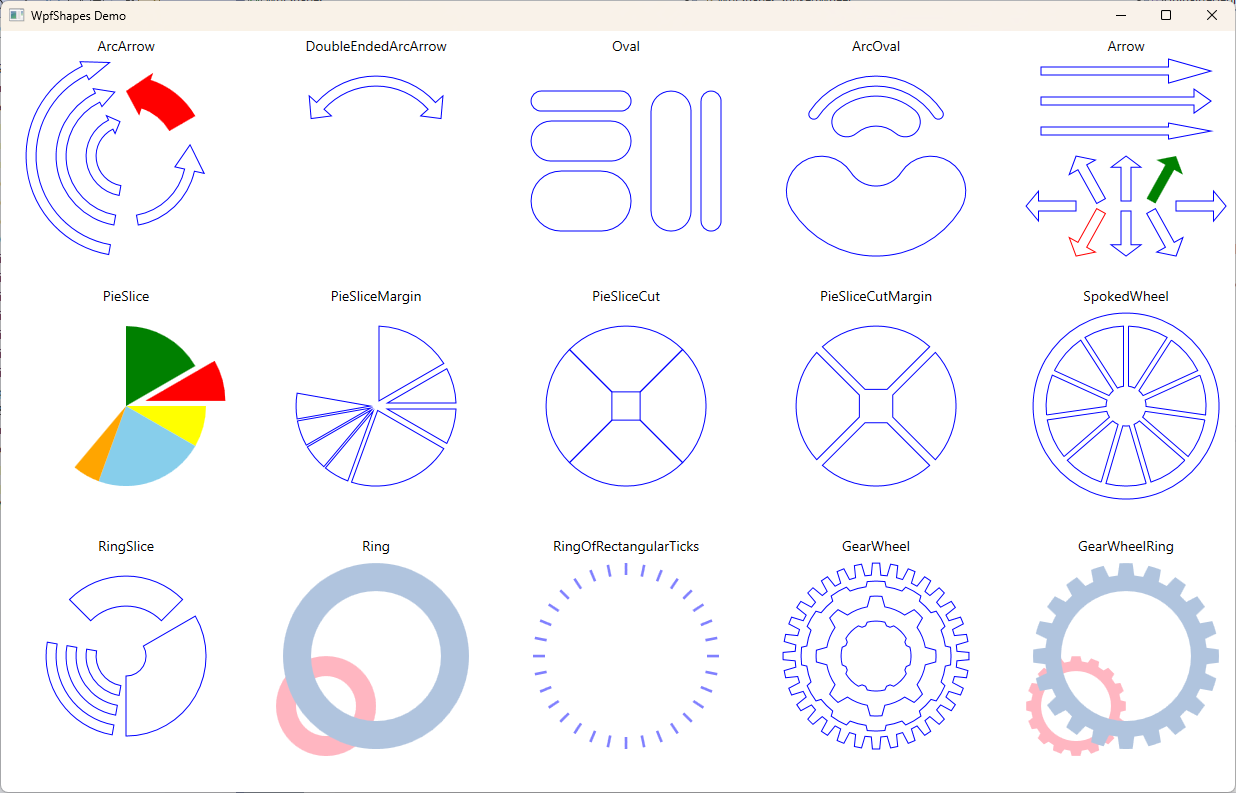
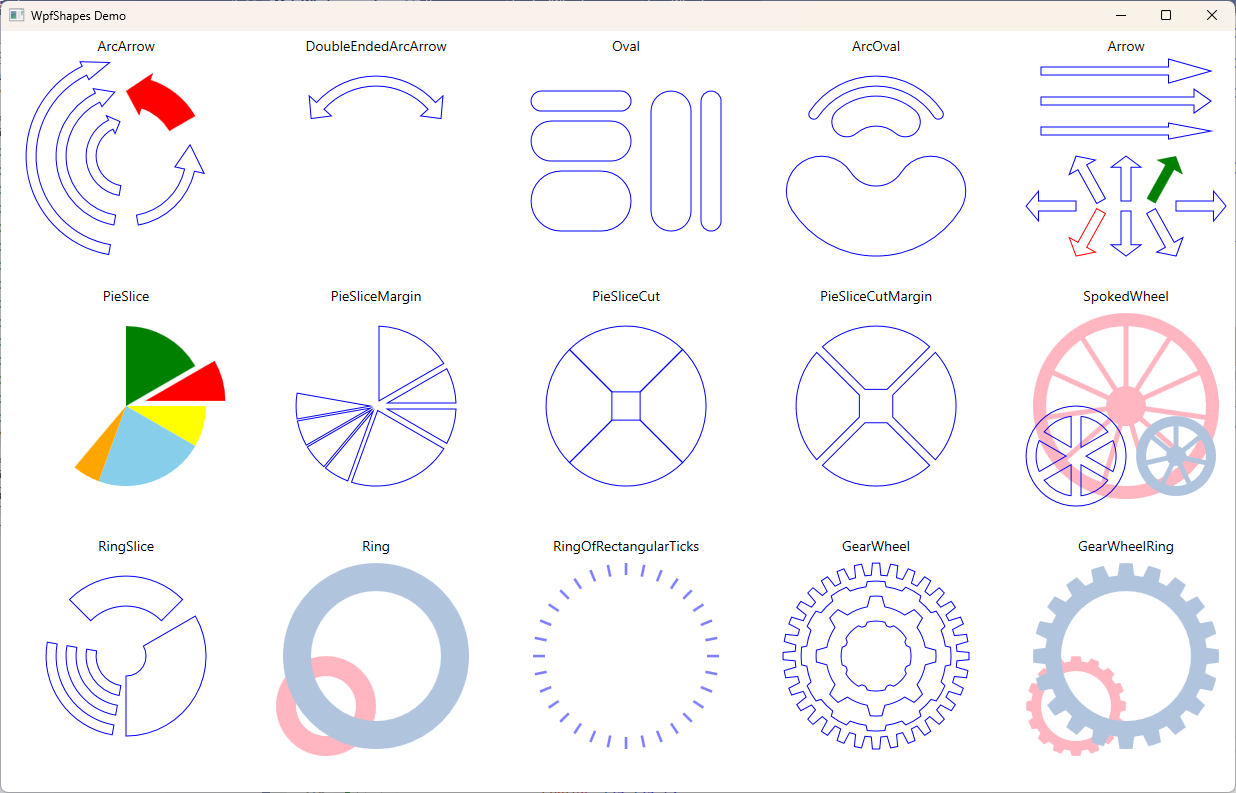
Extend the SpokedWheel shape to handle the case where the hub is too small to be visible, with the result that the holes in the shape have only three points instead of four points.

Changed region(s): [[0.8301, 0.3934, 1.0, 0.6356], [0.4304, 0.9987, 0.5534, 1.0], [0.1845, 0.9987, 0.3074, 1.0]]

diff --git a/WpfShapesDemo/MainWindow.xaml b/WpfShapesDemo/MainWindow.xaml
@@ -287,13 +287,35 @@
     <TextBlock Grid.Row="1" Grid.Column="4" Text="SpokedWheel"/>
     <shapes:SpokedWheel Grid.Row="1" Grid.Column="4"
                         Stroke="Blue"
+                        Fill="LightPink"
                         RimRadius="93"
                         RimInnerRadius="80"
                         HubRadius="20"
                         SpokeThickness="5"
                         NumberOfSpokes="11"
-                        StrokeThickness="1"
+                        StrokeThickness="0"
                         Center="125,125"/>
+
+    <shapes:SpokedWheel Grid.Row="1" Grid.Column="4"
+                        Stroke="Blue"
+                        RimRadius="50"
+                        RimInnerRadius="40"
+                        HubRadius="2"
+                        SpokeThickness="10"
+                        NumberOfSpokes="6"
+                        StrokeThickness="1"
+                        Center="75,175"/>
+
+    <shapes:SpokedWheel Grid.Row="1" Grid.Column="4"
+                        Stroke="Blue"
+                        Fill="LightSteelBlue"
+                        RimRadius="40"
+                        RimInnerRadius="30"
+                        HubRadius="10"
+                        SpokeThickness="5"
+                        NumberOfSpokes="7"
+                        StrokeThickness="0"
+                        Center="175,175"/>
 
     <!-- ==================== RingSlice ==================== -->
     <TextBlock Grid.Row="2" Grid.Column="0" Text="RingSlice"/>

diff --git a/WpfShapes/SpokedWheel.cs b/WpfShapes/SpokedWheel.cs
@@ -140,6 +140,14 @@ namespace WpfShapes
       double spokeSeparationAtHub = spokeSeparation - ( 2.0 * halfSpokeAngleAtHub ) ;
       double spokeSeparationAtRim = spokeSeparation - ( 2.0 * halfSpokeAngleAtRim) ;
 
+      // If there is no gap between the spokes at the hub, adjacent spokes will come
+      // together at a single point, which may be further away from the centre.
+      double ApexRadius = 0.0 ;
+      if ( spokeSeparationAtHub <= 0 )
+      {
+        ApexRadius = ( SpokeThickness / 2.0 ) / Math.Sin ( spokeSeparation / 2.0 ) ;
+      }
+
       var sb = new StringBuilder();
 
       // Use FillRule F0 = EvenOdd to make a holes
@@ -154,35 +162,73 @@ namespace WpfShapes
       sb.AppendFormat(CultureInfo.InvariantCulture, "A {0:F3},{0:F3} {1:F3} 1 1 {2:F3},{3:F3} ", RimRadius, Math.PI, p1.X, p1.Y);
 
       // We won't actually draw the spokes. Instead will draw the holes inbetween the spokes.
-      // To do, handle the case where there are two many spokes in the hub.
       for (int i = 0; i < NumberOfSpokes; i++)
       {
-        double a1 = i * spokeSeparation;
+        // Get the angle of this spoke and the next spoke.
+        double a1 = i * spokeSeparation ;
         double a2 = a1 + spokeSeparation ;
-        double o1 = a1 + halfSpokeAngleAtRim ;
-        double o2 = a2 - halfSpokeAngleAtRim ;
-        double i1 = a2 - halfSpokeAngleAtHub;
-        double i2 = a1 + halfSpokeAngleAtHub;
 
-        double co1 = Math.Cos(o1);
-        double so1 = Math.Sin(o1);
-        double co2 = Math.Cos(o2);
-        double so2 = Math.Sin(o2);
-        double ci1 = Math.Cos(i1);
-        double si1 = Math.Sin(i1);
-        double ci2 = Math.Cos(i2);
-        double si2 = Math.Sin(i2);
+        // Handle the two cases separately.
+        // I think this is more readable, even if some code is duplicated.
+        if ( spokeSeparationAtHub > 0 )
+        {
+          // The hole has four points
 
-        var q1 = new Point(RimInnerRadius * so1, -RimInnerRadius * co1) + offset;
-        var q2 = new Point(RimInnerRadius * so2, -RimInnerRadius * co2) + offset;
-        var q3 = new Point(HubRadius * si1, -HubRadius * ci1) + offset;
-        var q4 = new Point(HubRadius * si2, -HubRadius * ci2) + offset;
+          // Adjust for the spoke width at the rim
+          double o1 = a1 + halfSpokeAngleAtRim;
+          double o2 = a2 - halfSpokeAngleAtRim;
 
-        sb.AppendFormat(CultureInfo.InvariantCulture, "M {0:F3},{1:F3} ", q1.X, q1.Y);
-        sb.AppendFormat(CultureInfo.InvariantCulture, "A {0:F3},{0:F3} {1:F3} 0 1 {2:F3},{3:F3} ", RimInnerRadius, spokeSeparationAtRim, q2.X, q2.Y);
-        sb.AppendFormat(CultureInfo.InvariantCulture, "L {0:F3},{1:F3} ", q3.X, q3.Y);
-        sb.AppendFormat(CultureInfo.InvariantCulture, "A {0:F3},{0:F3} {1:F3} 0 0 {2:F3},{3:F3} ", HubRadius, spokeSeparationAtHub, q4.X, q4.Y);
-        sb.AppendFormat(CultureInfo.InvariantCulture, "L {0:F3},{1:F3} ", q1.X, q1.Y);
+          // Adjust for the spoke width at the hub
+          double i1 = a2 - halfSpokeAngleAtHub;
+          double i2 = a1 + halfSpokeAngleAtHub;
+
+          double co1 = Math.Cos(o1);
+          double so1 = Math.Sin(o1);
+          double co2 = Math.Cos(o2);
+          double so2 = Math.Sin(o2);
+          double ci1 = Math.Cos(i1);
+          double si1 = Math.Sin(i1);
+          double ci2 = Math.Cos(i2);
+          double si2 = Math.Sin(i2);
+
+          var q1 = new Point(RimInnerRadius * so1, -RimInnerRadius * co1) + offset;
+          var q2 = new Point(RimInnerRadius * so2, -RimInnerRadius * co2) + offset;
+          var q3 = new Point(HubRadius * si1, -HubRadius * ci1) + offset;
+          var q4 = new Point(HubRadius * si2, -HubRadius * ci2) + offset;
+
+          sb.AppendFormat(CultureInfo.InvariantCulture, "M {0:F3},{1:F3} ", q1.X, q1.Y);
+          sb.AppendFormat(CultureInfo.InvariantCulture, "A {0:F3},{0:F3} {1:F3} 0 1 {2:F3},{3:F3} ", RimInnerRadius, spokeSeparationAtRim, q2.X, q2.Y);
+          sb.AppendFormat(CultureInfo.InvariantCulture, "L {0:F3},{1:F3} ", q3.X, q3.Y);
+          sb.AppendFormat(CultureInfo.InvariantCulture, "A {0:F3},{0:F3} {1:F3} 0 0 {2:F3},{3:F3} ", HubRadius, spokeSeparationAtHub, q4.X, q4.Y);
+          sb.AppendFormat(CultureInfo.InvariantCulture, "L {0:F3},{1:F3} ", q1.X, q1.Y);
+        }
+        else
+        {
+          // The hole has three points
+
+          // Adjust for the spoke width at the rim
+          double o1 = a1 + halfSpokeAngleAtRim;
+          double o2 = a2 - halfSpokeAngleAtRim;
+
+          // Get the mid point angle
+          double im = a1 + ( spokeSeparation / 2.0 ) ;
+
+          double co1 = Math.Cos(o1);
+          double so1 = Math.Sin(o1);
+          double co2 = Math.Cos(o2);
+          double so2 = Math.Sin(o2);
+          double cim = Math.Cos(im);
+          double sim = Math.Sin(im);
+
+          var q1 = new Point(RimInnerRadius * so1, -RimInnerRadius * co1) + offset;
+          var q2 = new Point(RimInnerRadius * so2, -RimInnerRadius * co2) + offset;
+          var qm = new Point(ApexRadius * sim, -ApexRadius * cim) + offset;
+
+          sb.AppendFormat(CultureInfo.InvariantCulture, "M {0:F3},{1:F3} ", q1.X, q1.Y);
+          sb.AppendFormat(CultureInfo.InvariantCulture, "A {0:F3},{0:F3} {1:F3} 0 1 {2:F3},{3:F3} ", RimInnerRadius, spokeSeparationAtRim, q2.X, q2.Y);
+          sb.AppendFormat(CultureInfo.InvariantCulture, "L {0:F3},{1:F3} ", qm.X, qm.Y);
+          sb.AppendFormat(CultureInfo.InvariantCulture, "L {0:F3},{1:F3} ", q1.X, q1.Y);
+        }
       }
 
       sb.Append("Z ");
